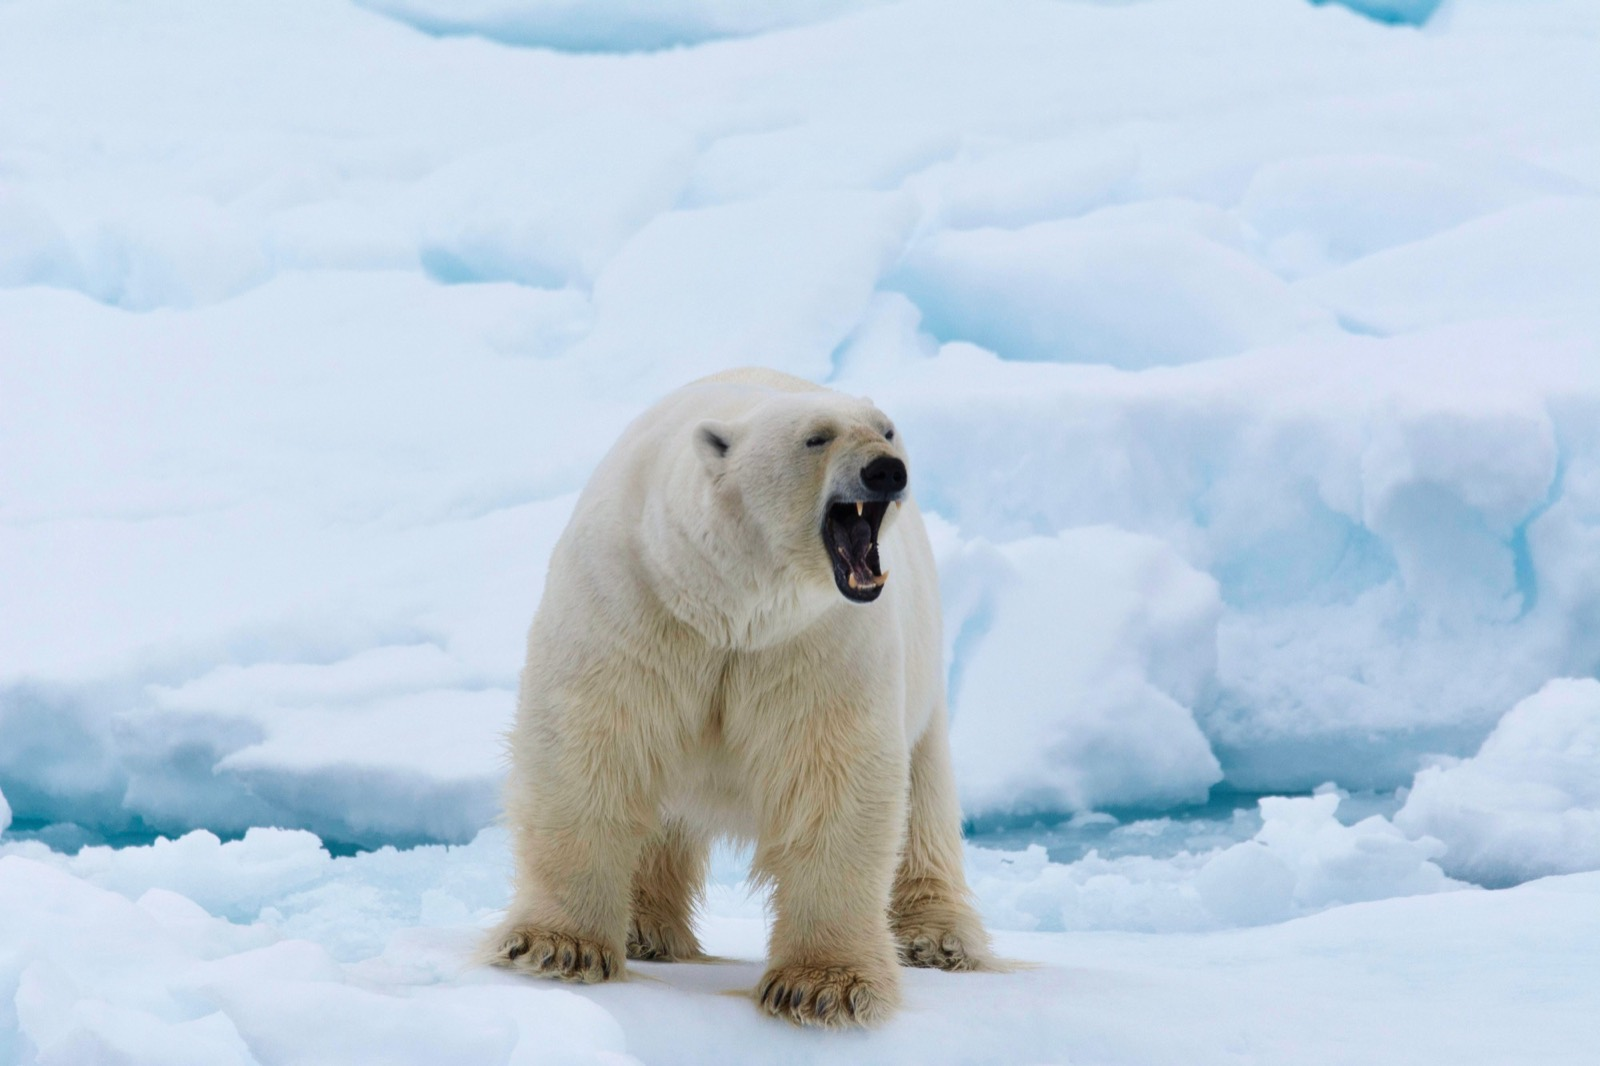
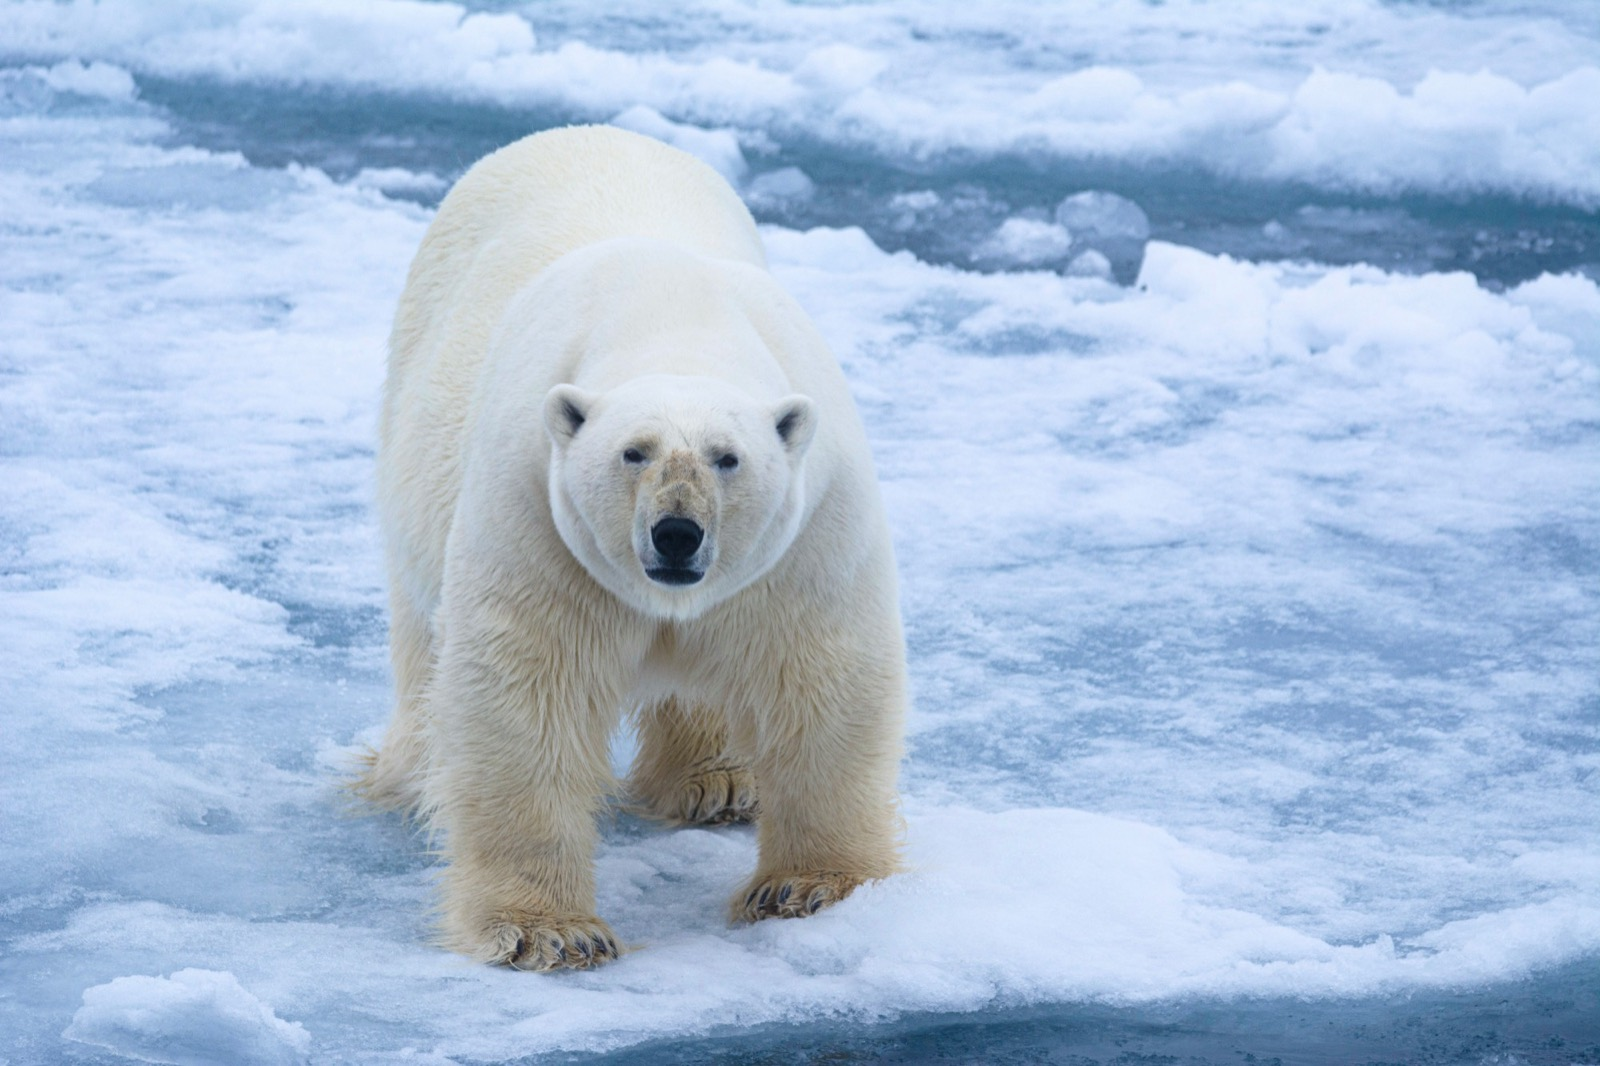
Wild moments: new polar bear photo

diff --git a/index.html b/index.html
@@ -124,7 +124,7 @@
       <figure><button type="button" class="field-open" aria-label="Enlarge photo: A lion cub naps in a tree, one paw dangling."><img src="assets/photos/field/cub-in-tree.jpg" alt="A lion cub naps in a tree, one paw dangling." loading="lazy" decoding="async"></button><figcaption>A lion cub naps in a tree, one paw dangling.</figcaption></figure>
       <figure><button type="button" class="field-open" aria-label="Enlarge photo: A seabird soars overhead, wings spread wide."><img src="assets/photos/field/seabird.jpg" alt="A seabird soars overhead, wings spread wide." loading="lazy" decoding="async"></button><figcaption>A seabird soars overhead, wings spread wide.</figcaption></figure>
       <figure><button type="button" class="field-open" aria-label="Enlarge photo: A snowshoe hare hops out of the dark forest."><img src="assets/photos/field/snowshoe-hare.jpg" alt="A snowshoe hare hops out of the dark forest." loading="lazy" decoding="async"></button><figcaption>A snowshoe hare hops out of the dark forest.</figcaption></figure>
-      <figure><button type="button" class="field-open" aria-label="Enlarge photo: A polar bear calls out across the sea ice."><img src="assets/photos/field/polar-bear.jpg" alt="A polar bear calls out across the sea ice." loading="lazy" decoding="async"></button><figcaption>A polar bear calls out across the sea ice.</figcaption></figure>
+      <figure><button type="button" class="field-open" aria-label="Enlarge photo: A polar bear walks straight toward the camera across the ice."><img src="assets/photos/field/polar-bear.jpg" alt="A polar bear walks straight toward the camera across the ice." loading="lazy" decoding="async"></button><figcaption>A polar bear walks straight toward the camera across the ice.</figcaption></figure>
       <figure><button type="button" class="field-open" aria-label="Enlarge photo: A silverback rests in the bamboo, gazing upward."><img src="assets/photos/field/silverback.jpg" alt="A silverback rests in the bamboo, gazing upward." loading="lazy" decoding="async"></button><figcaption>A silverback rests in the bamboo, gazing upward.</figcaption></figure>
       <figure><button type="button" class="field-open" aria-label="Enlarge photo: A hornbill shows off the giant casque on its bill."><img src="assets/photos/field/hornbill.jpg" alt="A hornbill shows off the giant casque on its bill." loading="lazy" decoding="async"></button><figcaption>A hornbill shows off the giant casque on its bill.</figcaption></figure>
       <figure><button type="button" class="field-open" aria-label="Enlarge photo: A brown bear wades in to catch salmon."><img src="assets/photos/field/brown-bear.jpg" alt="A brown bear wades in to catch salmon." loading="lazy" decoding="async"></button><figcaption>A brown bear wades in to catch salmon.</figcaption></figure>
